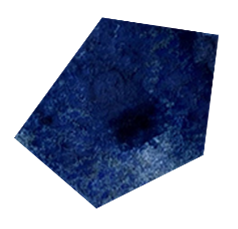
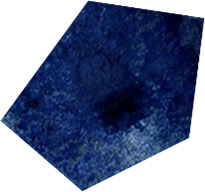
Becomings logik ändrat (ej klar )

diff --git a/Hv.Ppb302.DigitalThesis.WebClient/wwwroot/js/mosaics.js b/Hv.Ppb302.DigitalThesis.WebClient/wwwroot/js/mosaics.js
@@ -1,105 +1,57 @@
-// FILE-SCOPE VARIABLES
-// Get the mosaic container
-const container = document.querySelector('.mosaic-container');
-
-// Get all mosaic elements
-const mosaics = Array.from(container.querySelectorAll('.mosaic'));
-
-// Create an array to store the direction of each mosaic
-const directions = [];
-
-// Define a speed factor (smaller values will make the animation slower)
-const speedFactor = 0.5;
-
-// Get all checkboxes
+// Get all checkboxes
 const checkboxes = Array.from(document.querySelectorAll('.filter-checkbox input[type="checkbox"]'));
-
-// Select the button that will pause the mosaics
+const container = document.querySelector('.mosaic-container');
+const mosaics = Array.from(container.querySelectorAll('.mosaic'));
+const directions = mosaics.map(() => ({
+    x: (Math.random() > 0.5 ? 1 : -1) + Math.random() * 0.4,
+    y: (Math.random() > 0.5 ? 1 : -1) + Math.random() * 0.4,
+}));
+const speedFactor = 0.5;
 const becomingsBtn = document.getElementById('becomings-btn');
 let isBecomingsBtnTriggered = false;
 let isInitialUpdateTriggered = false;
 
-//MOSAICS
-
-// Set the initial position and direction of each mosaic
-mosaics.forEach((mosaic) => {
-    // Set the initial position of the mosaic
+// INITIAL SETUP
+mosaics.forEach(mosaic => {
     mosaic.style.left = `${Math.random() * 80}vw`;
     mosaic.style.top = `${Math.random() * 80}vh`;
-
-    // Set the initial direction of the mosaic
-    directions.push({
-        x: (Math.random() > 0.5 ? 1 : -1) + Math.random() * 0.5 - 0.1,
-        y: (Math.random() > 0.5 ? 1 : -1) + Math.random() * 0.5 - 0.1
-    });
 });
 
-function updateMosaicEventListeners() {
-    mosaics.forEach((mosaic) => {
-        // Remove existing event listeners
-        mosaic.removeEventListener('mouseover', pauseMosaic);
-        mosaic.removeEventListener('mouseout', resumeMosaic);
-
-        // Add or remove event listeners based on the state of isBecomingsBtnTriggered
-        if (!isBecomingsBtnTriggered) {
+function updateMosaicEventListeners(addListeners = true) {
+    mosaics.forEach(mosaic => {
+        if (addListeners) {
             mosaic.addEventListener('mouseover', pauseMosaic);
             mosaic.addEventListener('mouseout', resumeMosaic);
-        }
-
-        // Toggle the hover effect class based on the state of isBecomingsBtnTriggered
-        if (isBecomingsBtnTriggered) {
-            mosaic.classList.add('mosaic-becomingsbtn-effect');
-            // Ensure the text within the mosaic is also made visible
-            const textElements = mosaic.querySelectorAll('.mosaic a div');
-            textElements.forEach(textElement => {
-                textElement.style.opacity = '1';
-                textElement.style.visibility = 'visible';
-            });
         } else {
-            mosaic.classList.remove('mosaic-becomingsbtn-effect');
-            // Ensure the text within the mosaic is hidden
-            const textElements = mosaic.querySelectorAll('.mosaic a div');
-            textElements.forEach(textElement => {
-                textElement.style.opacity = '0';
-                textElement.style.visibility = 'hidden';
-            });
+            mosaic.removeEventListener('mouseover', pauseMosaic);
+            mosaic.removeEventListener('mouseout', resumeMosaic);
         }
     });
 }
 
 function pauseMosaic() {
     this.classList.add('paused');
-    // Ensure the text within the mosaic is made visible
-    const textElements = this.querySelectorAll('.mosaic a div');
-    textElements.forEach(textElement => {
-        textElement.style.opacity = '1';
-        textElement.style.visibility = 'visible';
-    });
+    toggleMosaicText(true);
 }
 
 function resumeMosaic() {
     this.classList.remove('paused');
-    // Ensure the text within the mosaic is hidden if the button is not pressed
-    if (!isBecomingsBtnTriggered) {
-        const textElements = this.querySelectorAll('.mosaic a div');
-        textElements.forEach(textElement => {
-            textElement.style.opacity = '0';
-            textElement.style.visibility = 'hidden';
-        });
-    }
+    toggleMosaicText(false);
+}
+
+function toggleMosaicText(show) {
+    document.querySelectorAll('.mosaic a div').forEach(textElement => {
+        textElement.style.opacity = show ? '1' : '0';
+        textElement.style.display = show ? 'block' : 'none';
+    });
 }
 
 function update() {
     mosaics.forEach((mosaic, index) => {
-        // Skip this mosaic if it's paused
-        if (mosaic.classList.contains('paused')) {
-            return;
-        }
+        if (mosaic.classList.contains('paused')) return;
 
-        // Get current position
         const rect = mosaic.getBoundingClientRect();
 
-        // Check if the mosaic hit an edge and update direction
         if (rect.left < 0 || rect.right > window.innerWidth) {
             directions[index].x *= -1;
         }
@@ -107,12 +59,10 @@ function update() {
             directions[index].y *= -1;
         }
 
-        // Update position
         mosaic.style.left = `${rect.left + directions[index].x * speedFactor}px`;
         mosaic.style.top = `${rect.top + directions[index].y * speedFactor}px`;
     });
 
-    // Call update again on the next frame
     requestAnimationFrame(update);
 }
 
@@ -125,40 +75,21 @@ if (!isInitialUpdateTriggered) {
     updateMosaicEventListeners();
 }
 
-// Add a click event listener to the button
-becomingsBtn.addEventListener('click', function () {
-    // Invert bool status of becomingsBtnTriggered
+// BecomingButton click event listener
+becomingsBtn.addEventListener('click', () => {
     isBecomingsBtnTriggered = !isBecomingsBtnTriggered;
+    becomingsBtn.textContent = isBecomingsBtnTriggered ? 'Hide Becomings' : 'Show Becomings';
 
-    // Update the button text based on the new state
-    if (isBecomingsBtnTriggered) {
-        becomingsBtn.innerHTML = 'Hide Becomings';
-    }
-    else {
-        becomingsBtn.innerHTML = 'Show Becomings';
-    }
+    updateMosaicEventListeners(!isBecomingsBtnTriggered);
 
-    // Update mosaic event listeners based on the new state
-    updateMosaicEventListeners();
-
-    if (isBecomingsBtnTriggered) {
-        rearrangeMosaics();
-    }
-
-    // Pause all mosaics by adding the 'paused' class to each mosaic
     mosaics.forEach(mosaic => {
-        mosaic.classList.add('paused');
+        mosaic.classList.toggle('paused', isBecomingsBtnTriggered);
     });
 
-    if (this.classList.contains('resume')) {
-        mosaics.forEach(mosaic => {
-            mosaic.classList.remove('paused');
-        });
-        this.classList.remove('resume');
-    } else {
-        this.classList.add('resume');
-    }
+    toggleMosaicText(isBecomingsBtnTriggered);
+
 });
+
 
 function rearrangeMosaics() {
     // Define the number of columns and rows for the grid
@@ -181,7 +112,7 @@ function rearrangeMosaics() {
         // Calculate the position for the mosaic with padding
         const left = column * mosaicWidth + leftPadding;
         const top = row * mosaicHeight + topPadding;
-
+        mosaic.style.position = "unset";
         // Apply the position
         mosaic.style.left = `${left}px`;
         mosaic.style.top = `${top}px`;

diff --git a/Hv.Ppb302.DigitalThesis.WebClient/wwwroot/css/geotags.css b/Hv.Ppb302.DigitalThesis.WebClient/wwwroot/css/geotags.css
@@ -82,7 +82,7 @@ a:hover img {
 }
 
 #blue-mosaic1 {
-    width: 8.75rem;
+    width: 6.75rem;
     height: auto;
     position: absolute;
     bottom: 32%;
@@ -90,7 +90,7 @@ a:hover img {
 }
 
 #blue-mosaic2 {
-    width: 8.75rem;
+    width: 6.75rem;
     height: auto;
     position: absolute;
     bottom: 36%;
@@ -98,7 +98,7 @@ a:hover img {
 }
 
 #blue-mosaic3 {
-    width: 8.75rem;
+    width: 6.75rem;
     height: auto;
     position: absolute;
     bottom: 44%;
@@ -106,7 +106,7 @@ a:hover img {
 }
 
 #blue-mosaic4 {
-    width: 8.75rem;
+    width: 6.75rem;
     height: auto;
     position: absolute;
     bottom: 53%;
@@ -114,7 +114,7 @@ a:hover img {
 }
 
 #blue-mosaic5 {
-    width: 8.75rem;
+    width: 6.75rem;
     height: auto;
     position: absolute;
     bottom: 43%;
@@ -122,7 +122,7 @@ a:hover img {
 }
 
 #yellow-mosaic1 {
-    width: 8.75rem;
+    width: 6.75rem;
     height: auto;
     position: absolute;
     bottom: 38%;
@@ -130,7 +130,7 @@ a:hover img {
 }
 
 #yellow-mosaic2 {
-    width: 8.75rem;
+    width: 6.75rem;
     height: auto;
     position: absolute;
     bottom: 48%;
@@ -138,7 +138,7 @@ a:hover img {
 }
 
 #yellow-mosaic3 {
-    width: 8.75rem;
+    width: 6.75rem;
     height: auto;
     position: absolute;
     bottom: 52%;

diff --git a/Hv.Ppb302.DigitalThesis.WebClient/wwwroot/css/kaleidoscoping.css b/Hv.Ppb302.DigitalThesis.WebClient/wwwroot/css/kaleidoscoping.css
@@ -115,9 +115,8 @@
 }
 
 .mosaic {
-    width: 6vw;
-    height: 6vw;
-    border-radius: 50%;
+    width: 5vw;
+    height: 5vw;
     position: absolute;
     transition: 3s ease;
 }
@@ -141,17 +140,17 @@
     list-style: none;
 }
 
-    .tagList li {
-        margin-bottom: 15px;
-    }
+.tagList li {
+    margin-bottom: 15px;
+}
 
-        .tagList li input {
-            text-align: center;
-        }
+.tagList li input {
+    text-align: center;
+}
 
 .mosaic-highlight-effect {
-    width: 10rem;
-    height: 10rem;
+    width: 8rem;
+    height: 8rem;
     transition: 1.8s ease;
     -webkit-filter: drop-shadow(0 0 5px #222);
     filter: drop-shadow(0 0 5px #222);

diff --git a/Hv.Ppb302.DigitalThesis.WebClient/wwwroot/css/mosaics.css b/Hv.Ppb302.DigitalThesis.WebClient/wwwroot/css/mosaics.css
@@ -52,7 +52,7 @@ a:hover img {
 }
 
 .mosaicImg {
-    width: 9rem;
+    width: 6.75rem;
     -webkit-filter: drop-shadow(5px 5px 5px #222);
     filter: drop-shadow(5px 5px 5px #222);
 }
@@ -259,4 +259,11 @@ a:hover img {
 
 .sidebar .openbtn {
     display: none;
+}
+
+.mosaic-float {
+    position: relative;
+    padding-top: 15vh;
+    display: flex;
+    gap: 7rem;
 }
